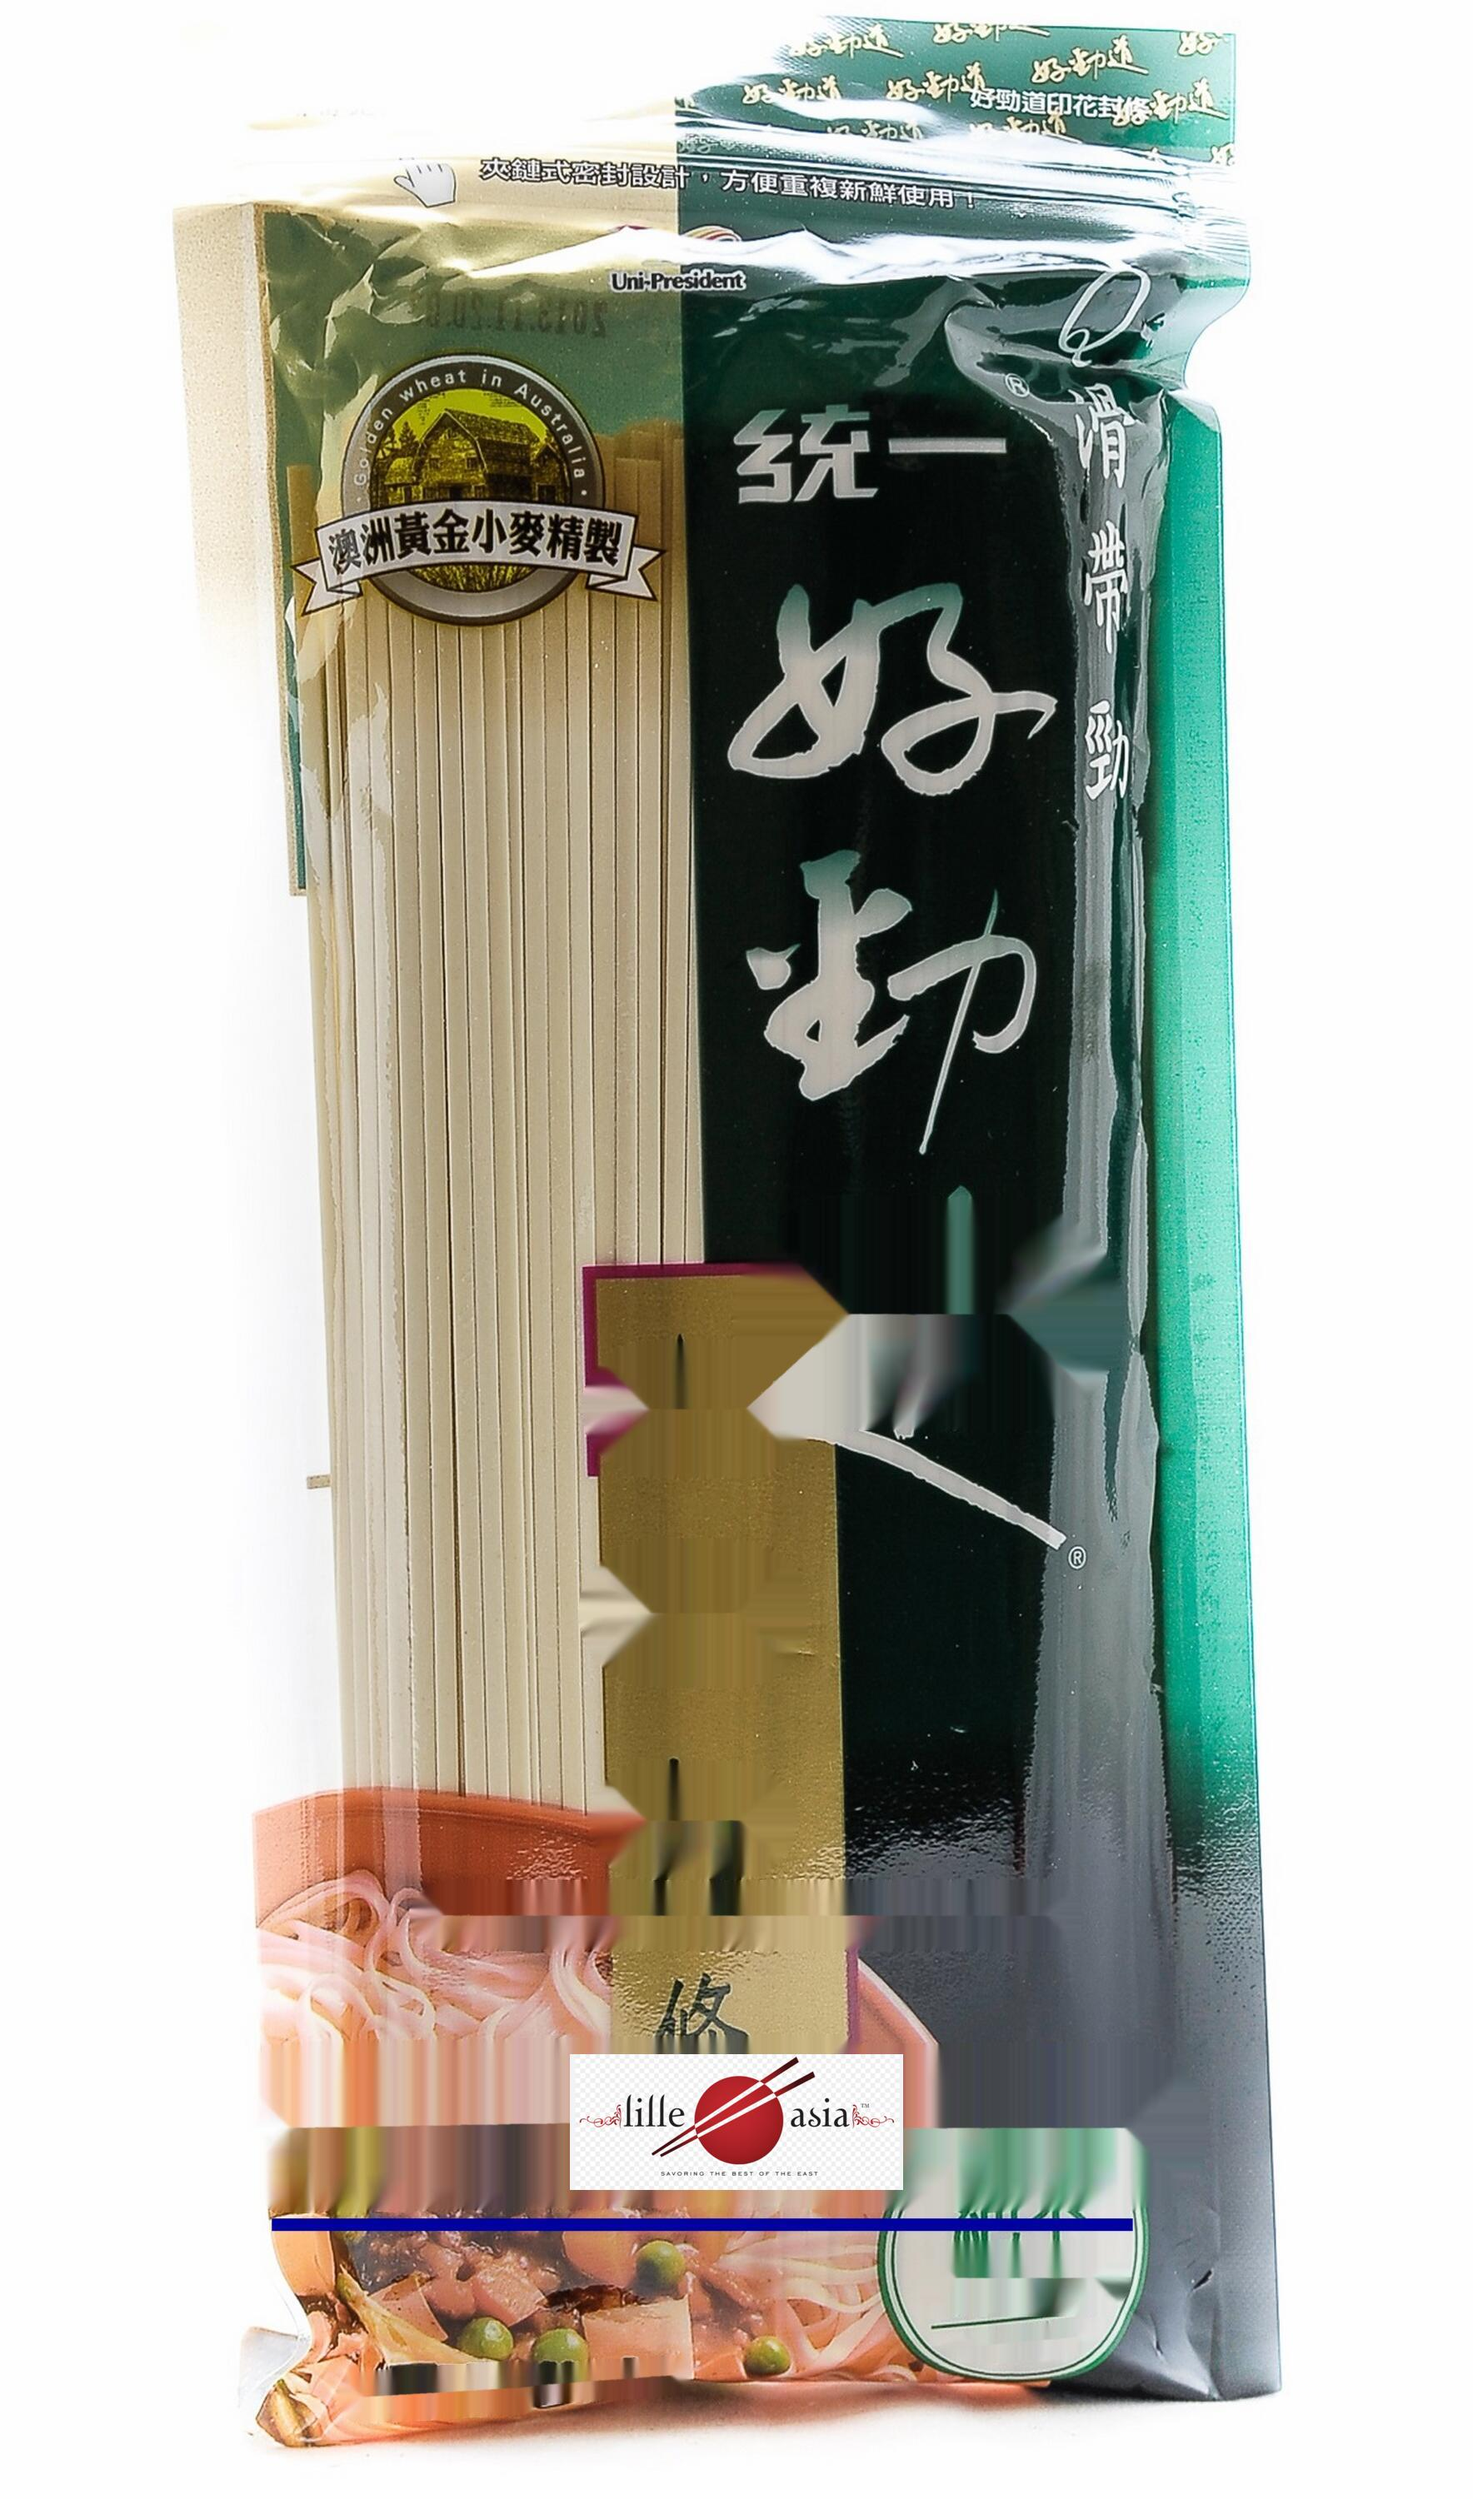
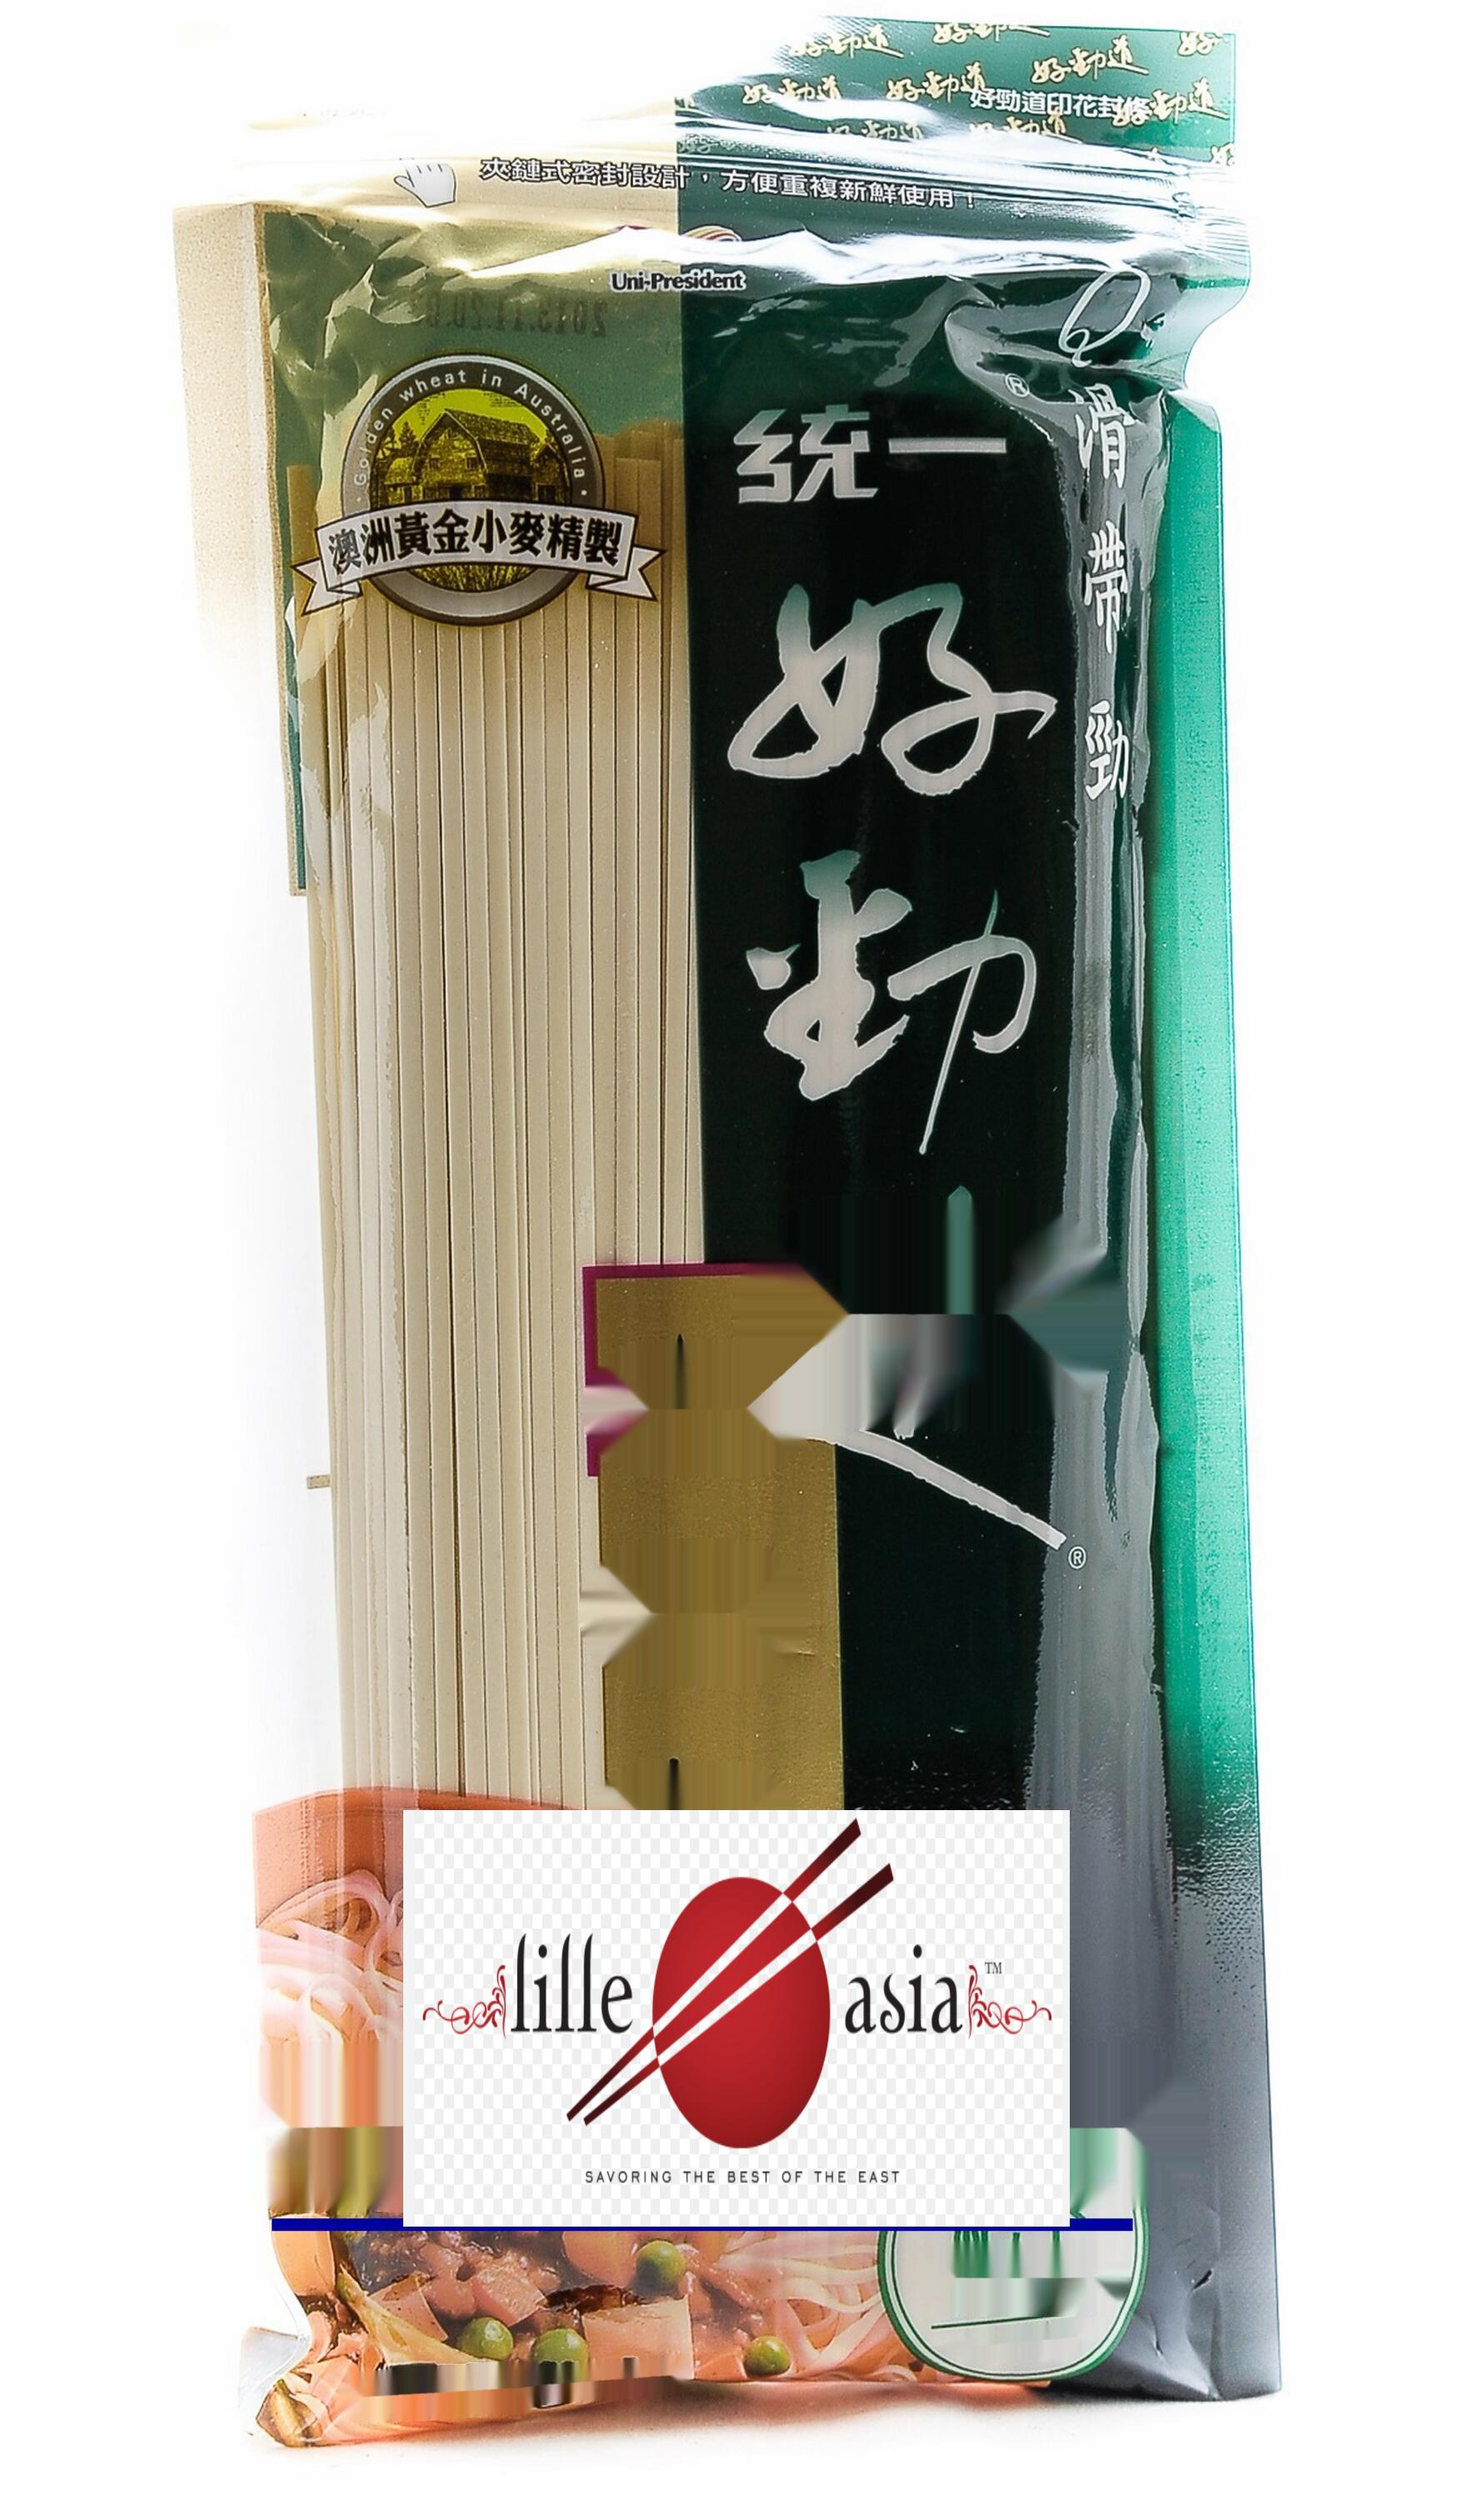
.

Changed region(s): [[0.2489, 0.713, 0.7466, 0.899]]

diff --git a/set.py b/set.py
@@ -5,6 +5,7 @@ import math
 import numpy as np
 from PIL import Image
 import keras_ocr
+import tensorflow as tf
 
 def midpoint(x1, y1, x2, y2):
     x_mid = int((x1 + x2) / 2)
@@ -21,71 +22,48 @@ image_files = [f for f in os.listdir(input_folder_path) if os.path.isfile(os.pat
 # Create the keras_ocr pipeline
 pipeline = keras_ocr.pipeline.Pipeline()
 
+
 def inpaint_and_insert(img_path, pipeline, image_to_insert_path, output_image_path, max_width=None, max_height=None):
-    # Read the image using keras_ocr tools
     img = keras_ocr.tools.read(img_path)
-    
-    # Use the pipeline to recognize text in the image
     prediction_groups = pipeline.recognize([img])
-    
-    # Create a mask for inpainting
+
     mask = np.zeros(img.shape[:2], dtype="uint8")
-    
-    # Iterate over recognized text boxes
     for box in prediction_groups[0]:
         x0, y0 = box[1][0]
         x1, y1 = box[1][1]
         x2, y2 = box[1][2]
         x3, y3 = box[1][3]
-        
-        # Calculate midpoints of diagonal corners
         x_mid0, y_mid0 = midpoint(x1, y1, x2, y2)
         x_mid1, y_mid1 = midpoint(x0, y0, x3, y3)
-        
-        # Only inpaint if the text is below the midpoint
         if y_mid0 > img.shape[0] / 2 and y_mid1 > img.shape[0] / 2:
-            # Calculate line thickness and define the line
             thickness = int(math.sqrt((x2 - x1) ** 2 + (y2 - y1) ** 2))
             cv2.line(mask, (x_mid0, y_mid0), (x_mid1, y_mid1), 255, thickness)
-    
-    # Inpaint using the mask
+
     inpainted_img = cv2.inpaint(img, mask, 3, cv2.INPAINT_NS)
-    
-    # Open the base image
     base_image = Image.fromarray(inpainted_img)
 
-    
-    # Open the image to insert and remove transparent background
     image_to_insert = Image.open(image_to_insert_path).convert('RGBA')
     image_data = image_to_insert.getdata()
     new_image_data = [(255, 255, 255, 255) if item[3] == 0 else item[:3] + (255,) for item in image_data]
     image_to_insert.putdata(new_image_data)
+
+    target_size = (max_width, max_height) if max_width and max_height else None
+    resized_image = tf.image.resize(image_to_insert, target_size, method=tf.image.ResizeMethod.BILINEAR)
+    resized_image_pil = Image.fromarray(resized_image.numpy().astype(np.uint8))
+
+    x = (base_image.width - resized_image_pil.width) // 2
+    y = 20 * (base_image.height - resized_image_pil.height) // 23
+    base_image.paste(resized_image_pil, (x, y), resized_image_pil)
     
-    # Calculate the resizing ratio based on maximum width or height
-    width_ratio, height_ratio = 1, 1
-    if max_width is not None and image_to_insert.width > max_width:
-        width_ratio = max_width / float(image_to_insert.width)
-    if max_height is not None and image_to_insert.height > max_height:
-        height_ratio = max_height / float(image_to_insert.height)
-    resize_ratio = min(width_ratio, height_ratio)
-    
-    # Resize the image to insert while maintaining aspect ratio
-    new_width = int(image_to_insert.width * resize_ratio)
-    new_height = int(image_to_insert.height * resize_ratio)
-    resized_image = image_to_insert.resize((new_width, new_height))
-    
-    # Calculate the position to insert the image
-    x = (base_image.width - new_width) // 2  # Center horizontally
-    y = 20*(base_image.height - new_height) // 23  # Center vertically
-    
-    # Paste the resized image onto the base image
-    base_image.paste(resized_image, (x, y), resized_image)
-    
-    # Save the output image
     base_image.save(output_image_path)
 
+def inpaint_and_insert_batch(image_files, input_folder_path, pipeline, image_to_insert_path, output_folder_path, max_width=None, max_height=None):
+    for image_file in image_files:
+        img_path = os.path.join(input_folder_path, image_file)
+        output_image_path = os.path.join(output_folder_path, f'output_{image_file}')
+        inpaint_and_insert(img_path, pipeline, image_to_insert_path, output_image_path, max_width, max_height)
 
-# Iterate through each image file in the input folder
+#Iterate through each image file in the input folder
 for image_file in image_files:
     # Construct the full path to the input image file
     img_path = os.path.join(input_folder_path, image_file)
@@ -95,8 +73,8 @@ for image_file in image_files:
     output_image_path = os.path.join(output_folder_path, f'output_{image_file}')  # Output image path
     
     # Set the maximum width and height if needed
-    max_width = 400
-    max_height = 600
+    max_width = 500
+    max_height = 800
     
     # Call the inpaint_and_insert function for each image
-    inpaint_and_insert(img_path, pipeline, image_to_insert_path, output_image_path, max_width, max_height)
+    inpaint_and_insert_batch(img_path, pipeline, image_to_insert_path, output_image_path, max_width, max_height)
